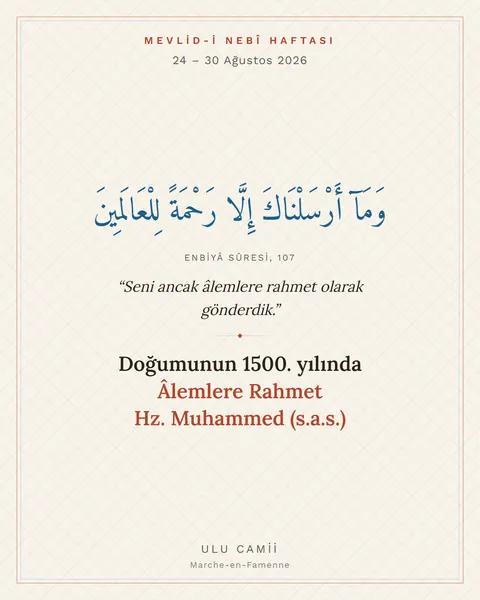
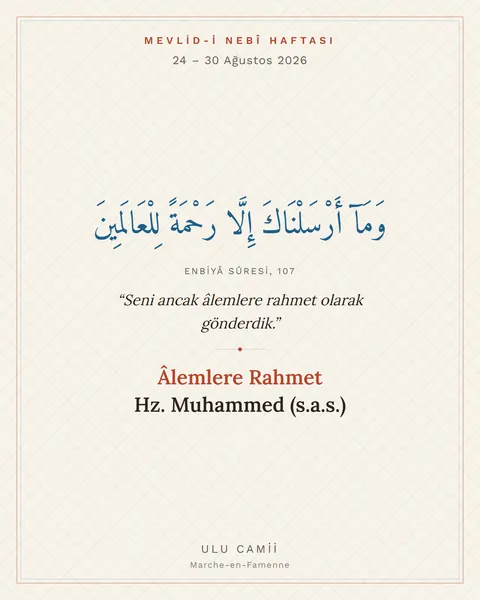
Duzeltme: 1500. yil temasi bu haftanin degil, tamamlanan yillik programin
Denetimde cikti: "Dogumunun 1500. Yilinda Alemlere Rahmet Hz. Muhammed (s.a.s.)"
Diyanet Isleri Baskanligi'nin 3 Eylul 2025 - 23 Agustos 2026 arasinda yurutulen
bir yillik programinin temasi. 1500. yil donumu 12 Rebiulevvel 1447'ye (yaklasik
5 Eylul 2025) denk geliyor; bu haftaki kandil 1448'e ait ve program bu kandilden
bir gun once tamamlandi. Duyuruda "bu yilin temasi" denmesi yanlisti.

Duzeltildi (TR + FR): ozet, bilgi kutusu ve ilgili paragraf artik programi
tarihleriyle ve kapsamiyla dogru anlatiyor; 25-27 Eylul 2026'daki Uluslararasi
Mevlid-i Nebi Sempozyumu da eklendi. Kapak gorselinden "Dogumunun 1500. yilinda"
satiri cikarildi, yerine ayetle uyumlu "Alemlere Rahmet Hz. Muhammed (s.a.s.)"
kaldi. Kandil tarihi, haftanin kandille basladigi ve diger butun dini bilgiler
degismedi - onlar dogrulanmisti.

Ayrica site.yaml'deki bir yorum satirindan dernegin altyapi e-posta adresi
cikarildi: sitede gorunmuyordu ama depo public oldugu icin GitHub'da okunuyordu.

Claude-Session: https://claude.ai/code/session_01W9FbGji6CtGB52WSP8uxnU

Changed region(s): [[0.1875, 0.3, 0.8125, 0.72]]

diff --git a/src/content/duyurular/fr/mevlid-i-nebi-haftasi-2026.md b/src/content/duyurular/fr/mevlid-i-nebi-haftasi-2026.md
@@ -1,16 +1,16 @@
 ---
 baslik: "Semaine du Mawlid : envoyé comme miséricorde pour l'univers"
 tarih: 2026-08-27
-ozet: "Du 24 au 30 août 2026, nous vivons la Semaine du Mawlid (Mevlid-i Nebî). La Présidence des Affaires religieuses a retenu pour thème de cette année : « En la 1500e année de sa naissance, Muhammad (s.a.w.s.), miséricorde pour l'univers »."
+ozet: "Du 24 au 30 août 2026, nous vivons la Semaine du Mawlid (Mevlid-i Nebî). Que signifie « mawlid », pourquoi cette semaine à ces dates, quel est le sens de la commémoration de la naissance du Prophète ? Nous adressons nos vœux à notre communauté."
 kapak: /media/duyurular/mevlid-i-nebi-haftasi-2026.webp
-kapakAlt: "Visuel de la Semaine du Mawlid 2026 — verset 107 de la sourate Al-Anbiya et thème de l'année"
+kapakAlt: "Visuel de la Semaine du Mawlid 2026 — verset 107 de la sourate Al-Anbiya : Nous ne t'avons envoyé que comme miséricorde pour l'univers"
 etiketler:
   - mevlid
   - diyanet
 oneCikan: true
 ---
 
-<div class="bilgi"><p><strong>Semaine du Mawlid : du 24 au 30 août 2026.</strong> Thème de cette année — <em>« En la 1500<sup>e</sup> année de sa naissance, Muhammad (s.a.w.s.), miséricorde pour l'univers »</em></p></div>
+<div class="bilgi"><p><strong>Semaine du Mawlid : du 24 au 30 août 2026.</strong> La semaine commence avec la Nuit du Mawlid, observée dans la nuit du lundi 24 au mardi 25 août.</p></div>
 
 Nous voici à l'anniversaire du jour où le Prophète de la miséricorde est venu au monde. La Nuit du Mawlid a été observée dans la nuit du lundi 24 au mardi 25 août ; la **Semaine du Mawlid**, qui commence avec cette nuit, se poursuit jusqu'au dimanche 30 août au soir.
 
@@ -28,7 +28,7 @@ Commémorer cette naissance par des cérémonies n'existait ni du vivant du Prop
 
 Longtemps organisées en avril sous le nom de « Semaine de la Naissance bénie », ces manifestations ont été **rattachées au calendrier hégirien en 2017** par la Présidence des Affaires religieuses et sont devenues la Semaine du Mawlid. La semaine coïncide donc chaque année avec le **12 Rabi‘ al-awwal**, jour de la naissance du Prophète.
 
-Cette année revêt une signification particulière : nous sommes entrés dans l'année **1448** de l'hégire, que la Présidence des Affaires religieuses a proclamée **1500<sup>e</sup> année de la naissance du Prophète**. Le thème des programmes organisés toute l'année, en Turquie comme à l'étranger, est : *« En la 1500<sup>e</sup> année de sa naissance, Muhammad (s.a.w.s.), miséricorde pour l'univers »*.
+La Présidence des Affaires religieuses a mené, du 3 septembre 2025 au 23 août 2026, un programme d'un an consacré à la **1500<sup>e</sup> année de la naissance du Prophète**, sous le thème *« En la 1500<sup>e</sup> année de sa naissance, Muhammad (s.a.w.s.), miséricorde pour l'univers »* ; il a couvert 81 provinces et 922 districts en Turquie ainsi que les régions où vivent nos communautés à l'étranger. Le Symposium international du Mawlid, qui s'inscrit dans ce programme, se tiendra du 25 au 27 septembre 2026 à Istanbul.
 
 ## Sens et portée
 

diff --git a/src/content/duyurular/tr/mevlid-i-nebi-haftasi-2026.md b/src/content/duyurular/tr/mevlid-i-nebi-haftasi-2026.md
@@ -1,16 +1,16 @@
 ---
 baslik: "Mevlid-i Nebî Haftası: Âlemlere Rahmet Olarak Gönderildi"
 tarih: 2026-08-27
-ozet: "24-30 Ağustos 2026'da Mevlid-i Nebî Haftası'nı idrak ediyoruz. Diyanet İşleri Başkanlığı bu yılın temasını \"Doğumunun 1500. Yılında Âlemlere Rahmet Hz. Muhammed (s.a.s.)\" olarak belirledi. Cemaatimizin haftasını tebrik ediyoruz."
+ozet: "24-30 Ağustos 2026'da Mevlid-i Nebî Haftası'nı idrak ediyoruz. Mevlid ne demektir, hafta neden bu tarihlerde, Peygamberimizin doğumunu anmanın anlamı nedir? Cemaatimizin Mevlid-i Nebî Haftası'nı tebrik ediyoruz."
 kapak: /media/duyurular/mevlid-i-nebi-haftasi-2026.webp
-kapakAlt: "Mevlid-i Nebî Haftası 2026 kapak görseli — Enbiyâ sûresi 107. âyet ve bu yılın teması"
+kapakAlt: "Mevlid-i Nebî Haftası 2026 kapak görseli — Enbiyâ sûresi 107. âyet: Seni ancak âlemlere rahmet olarak gönderdik"
 etiketler:
   - mevlid
   - diyanet
 oneCikan: true
 ---
 
-<div class="bilgi"><p><strong>Mevlid-i Nebî Haftası: 24-30 Ağustos 2026.</strong> Bu yılın teması — <em>“Doğumunun 1500. Yılında Âlemlere Rahmet Hz. Muhammed (s.a.s.)”</em></p></div>
+<div class="bilgi"><p><strong>Mevlid-i Nebî Haftası: 24-30 Ağustos 2026.</strong> Hafta Mevlid Kandili ile başlar; kandili 24 Ağustos Pazartesi’yi 25 Ağustos Salı’ya bağlayan gece idrak ettik.</p></div>
 
 Rahmet Peygamberi'nin dünyayı şereflendirdiği günün yıl dönümündeyiz. Mevlid Kandili'ni 24 Ağustos Pazartesi'yi 25 Ağustos Salı'ya bağlayan gece idrak ettik; bu geceyle başlayan **Mevlid-i Nebî Haftası** 30 Ağustos Pazar akşamına kadar sürüyor.
 
@@ -28,7 +28,7 @@ Doğum gününün törenlerle anılması Hz. Peygamber'in hayatında ve Hulefâ-
 
 Diyanet İşleri Başkanlığı, uzun yıllar nisan ayında “Kutlu Doğum Haftası” adıyla yapılan programları **2017'de hicrî takvime bağlayarak** Mevlid-i Nebî Haftası'na dönüştürdü. Böylece hafta, her yıl Hz. Peygamber'in doğum günü olan **12 Rebîülevvel** ile birlikte idrak ediliyor.
 
-Bu yıl haftanın ayrı bir anlamı var: hicrî takvime göre **1448**'e girdik ve Diyanet İşleri Başkanlığı bu seneyi **Hz. Peygamber'in doğumunun 1500. yılı** olarak ilan etti. Yurt içinde ve yurt dışında yıl boyu süren programların teması: *“Doğumunun 1500. Yılında Âlemlere Rahmet Hz. Muhammed (s.a.s.)”*
+Diyanet İşleri Başkanlığı, Peygamberimizin **doğumunun 1500. yılı** için 3 Eylül 2025'te başlayıp 23 Ağustos 2026'da tamamlanan bir yıllık program yürüttü. Programın teması *“Doğumunun 1500. Yılında Âlemlere Rahmet Hz. Muhammed (s.a.s.)”* idi; yurt içinde 81 il ve 922 ilçeyi, yurt dışında da soydaş ve dindaşlarımızın yaşadığı bölgeleri kapsadı. Aynı programın Uluslararası Mevlid-i Nebî Sempozyumu 25-27 Eylül 2026'da İstanbul'da yapılacak.
 
 ## Anlam ve önemi
 
